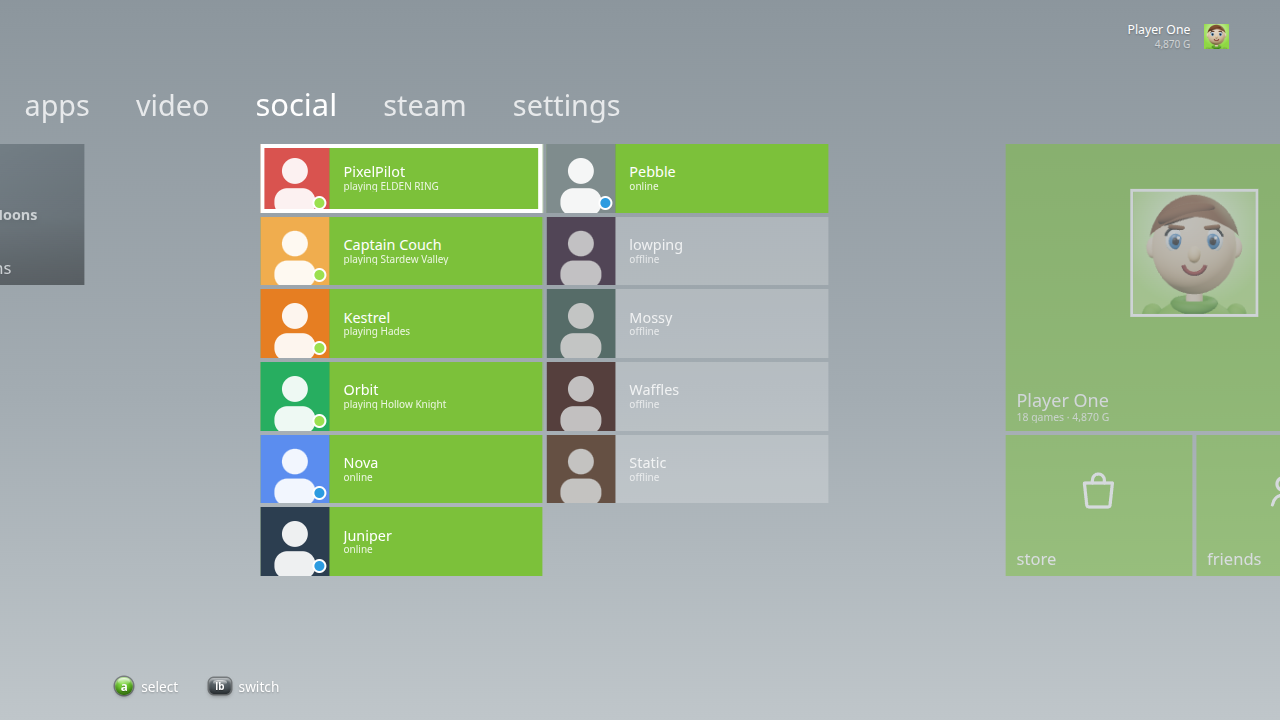
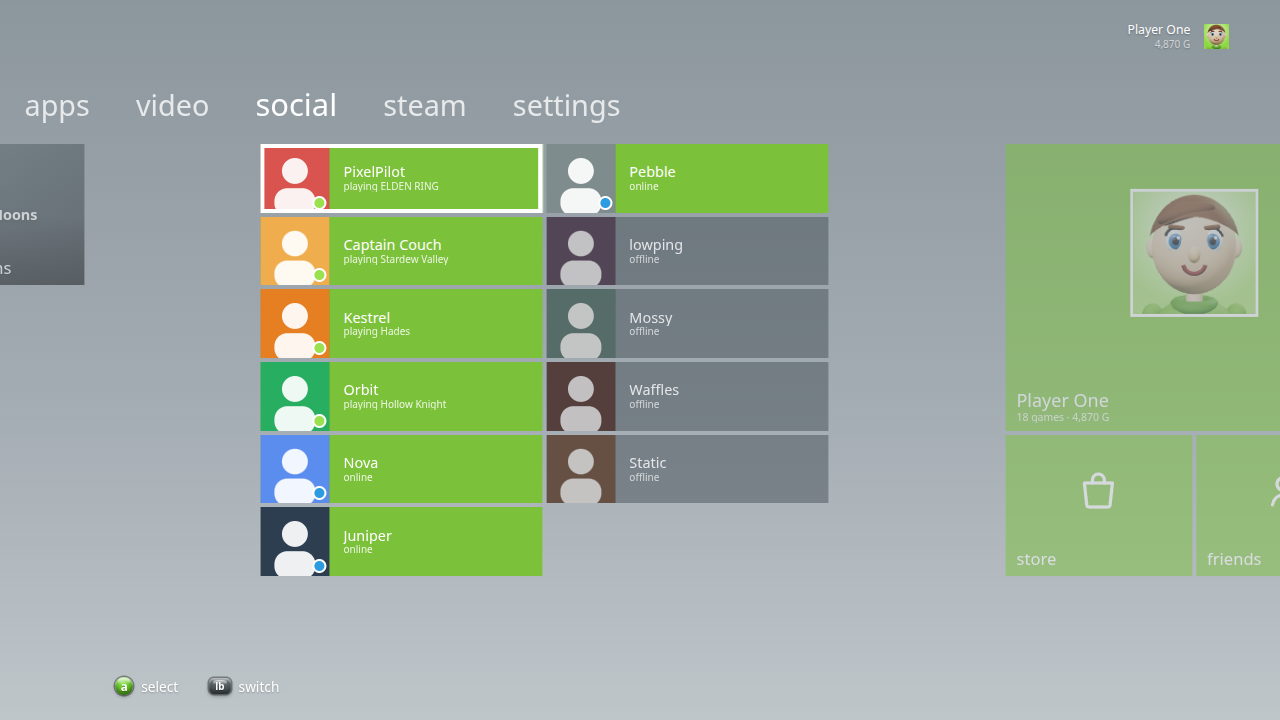
1.3.1: refinements, CI smoke test, support section
- Smaller tile sizes stay vertically centred; offline friend rows and the
  sand background read better; the add-profile slot is visible on light
  themes.
- Sign-in: avatars shrink to fit when there are many profiles, plates get
  smaller, and "add profile" is hidden once there are 8 (the limit).
- Tests for the customize settings (sanitizing, per-profile colors, and
  that the renderer offers exactly the values settings accept).
- CI workflow: unit tests plus every screen rendered offscreen under xvfb,
  failing on page errors; screenshots kept as an artifact.
  test/readme-shots.sh takes OUT and SETTINGS.
- README: video/social/customize/sign-in features, fixed controls table,
  Support section; FUNDING.yml for the Sponsor button.

Changed region(s): [[0.4688, 0.275, 0.6562, 0.7028]]

diff --git a/src/renderer/app.js b/src/renderer/app.js
@@ -33,7 +33,7 @@ const TILE_HEX = {
 const BG_HEX = {
   silver: ['#8c969d', '#a3acb2', '#bfc6ca'], graphite: ['#3f4549', '#353a3e', '#2a2e31'], black: ['#141516', '#0c0d0e', '#050505'],
   navy: ['#1d2c4a', '#14203a', '#0b1326'], forest: ['#2b4a30', '#1f3623', '#132216'], plum: ['#46304f', '#33223a', '#211625'],
-  wine: ['#561e28', '#3c141b', '#250b10'], sand: ['#c9b893', '#d8cba9', '#e6dcc3'],
+  wine: ['#561e28', '#3c141b', '#250b10'], sand: ['#a8946a', '#b8a57c', '#c9b892'],
 };
 const TILE_SIZES = { huge: 1.15, large: 1, medium: 0.85, small: 0.72, tiny: 0.6 };
 const TEXT_SIZES = { small: 0.85, normal: 1, large: 1.2 };
@@ -634,14 +634,15 @@ function metrics() {
   const vh = window.innerHeight;
   // Tile size from 0.5.0 (readable on a TV), with the console's tight gaps.
   const g = Math.max(3, Math.round(vh * 0.005));
-  const gridH = Math.min(vh * 0.6, vw * 0.36) * (TILE_SIZES[state.settings.tileSize] || 1);
+  const fullH = Math.min(vh * 0.6, vw * 0.36);
+  const gridH = fullH * (TILE_SIZES[state.settings.tileSize] || 1);
   const v = (gridH - 2 * g) / ROWS;
   const u = v * 1.32;
   const homeCols = 4;
   const homeW = homeCols * u + (homeCols - 1) * g;
   const x0 = Math.max(40, (vw - homeW) / 2);
   // Neighbouring pivots only peek in from the screen edges.
-  return { vw, vh, g, u, v, x0, top: Math.max(120, vh * 0.2), gap: Math.max(u * 0.62, x0 - u * 0.45) };
+  return { vw, vh, g, u, v, x0, top: Math.max(120, vh * 0.2) + Math.max(0, fullH - gridH) / 2, gap: Math.max(u * 0.62, x0 - u * 0.45) };
 }
 
 // Pivot start columns in strip pixels.
@@ -1477,7 +1478,8 @@ function openSignIn({ startup = false } = {}) {
   const grid = el('div', GL ? 'si-stage' : 'lib-grid pic-grid');
   const cap = el('div', 'lib-caption');
   panel.append(grid, cap);
-  const items = [...profiles.map((p) => ({ p })), { add: true }];
+  // Settings keep at most 8 profiles.
+  const items = [...profiles.map((p) => ({ p })), ...(state.settings.profiles.length < 8 ? [{ add: true }] : [])];
   let i = Math.max(0, profiles.findIndex((p) => p.id === state.settings.profile));
   // With WebGL everyone's avatar stands on one stage, idling, with a name
   // plate under each; otherwise gamerpic cards.
@@ -1488,7 +1490,8 @@ function openSignIn({ startup = false } = {}) {
     grid.append(canvas);
     lineup = new AvatarLineup(canvas);
     lineup.setLooks(profiles.map((p) => normalizeLook(p.avatarLook)));
-    lineup.slots(items.slice(0, -1).map((_, k) => (k + 0.5) / items.length));
+    lineup.slots(profiles.map((_, k) => (k + 0.5) / items.length), items.length);
+    grid.classList.toggle('many', items.length > 5);
   }
   const cards = items.map((it, k) => {
     const c = GL

diff --git a/test/library.test.js b/test/library.test.js
@@ -70,3 +70,56 @@ test('settings are sanitized', () => {
   assert.deepStrictEqual(s.pinned, ['steam:1']);
   assert.strictEqual(s.afterLaunch, 'close');
 });
+
+test('customize settings are sanitized', () => {
+  const s = sanitize({
+    tileColor: 'teal', bgColor: 'url(evil)', tileSize: 'tiny', textSize: 'gigantic',
+    hiddenTabs: ['video', 'video', 'home', 'settings', 'social', 3], recentCount: 3, friendCount: 999, cycleTiles: false,
+  });
+  assert.strictEqual(s.tileColor, 'teal');
+  assert.strictEqual(s.bgColor, '');
+  assert.strictEqual(s.tileSize, 'tiny');
+  assert.strictEqual(s.textSize, 'normal');
+  // home and settings can never be hidden
+  assert.deepStrictEqual(s.hiddenTabs, ['video', 'social']);
+  assert.strictEqual(s.recentCount, 3);
+  assert.strictEqual(s.friendCount, 24);
+  assert.strictEqual(s.cycleTiles, false);
+});
+
+test('colors follow the profile, layout stays shared', () => {
+  const fs = require('fs');
+  const os = require('os');
+  const { Settings } = require('../src/main/settings');
+  const dir = fs.mkdtempSync(path.join(os.tmpdir(), 'nc-settings-'));
+  try {
+    const st = new Settings(dir);
+    st.update({ tileColor: 'red', tileSize: 'small' });
+    st.createProfile('two');
+    assert.strictEqual(st.values.tileColor, '');
+    st.update({ tileColor: 'blue' });
+    st.switchProfile('p1');
+    assert.strictEqual(st.values.tileColor, 'red');
+    assert.strictEqual(st.values.tileSize, 'small');
+    st.switchProfile('p2');
+    assert.strictEqual(st.values.tileColor, 'blue');
+  } finally {
+    fs.rmSync(dir, { recursive: true, force: true });
+  }
+});
+
+test('the renderer offers exactly the customize values settings accept', () => {
+  const fs = require('fs');
+  const S = require('../src/main/settings');
+  const app = fs.readFileSync(path.join(__dirname, '../src/renderer/app.js'), 'utf8');
+  const keysOf = (name) => {
+    const m = app.match(new RegExp(`const ${name} = \\{([\\s\\S]*?)\\n?\\};`));
+    assert.ok(m, name);
+    return [...m[1].matchAll(/(?:^|[\s,{])([a-z]+):/g)].map((x) => x[1]);
+  };
+  assert.deepStrictEqual(keysOf('TILE_HEX'), S.TILE_COLORS.filter(Boolean));
+  assert.deepStrictEqual(keysOf('BG_HEX'), S.BG_COLORS.filter(Boolean));
+  assert.deepStrictEqual(keysOf('TILE_SIZES'), S.TILE_SIZES);
+  assert.deepStrictEqual(keysOf('TEXT_SIZES'), S.TEXT_SIZES);
+  assert.deepStrictEqual(keysOf('TAB_NAMES'), S.TABS);
+});

diff --git a/src/renderer/styles.css b/src/renderer/styles.css
@@ -635,7 +635,7 @@ body.has-overlay #hints { color: var(--dim); text-shadow: none; }
 .tile.t-friend .t-cap { position: static; flex: 1; min-width: 0; padding: 0 12px 0 14px; background: none; text-shadow: none; }
 .tile.t-friend .t-cap b { font-size: clamp(12px, 2vh, 21px); }
 .tile.t-friend .t-cap span { font-size: clamp(10px, 1.35vh, 14px); }
-.tile.t-friend.offline { background: rgba(255, 255, 255, .22); }
+.tile.t-friend.offline { background: rgba(70, 80, 88, .5); }
 .tile.t-friend.offline .f-pic { filter: grayscale(.8) brightness(.8); }
 .tile.t-friend.offline .t-cap { opacity: .8; }
 .tile.t-friend.in-game .f-pic::after, .tile.t-friend.online .f-pic::after { content: ""; position: absolute; right: 5px; bottom: 5px; width: 10px; height: 10px; border-radius: 50%; background: #9be04f; box-shadow: 0 0 0 2px #fff; }
@@ -675,7 +675,8 @@ body.custom-bg #bg .glow, body.custom-bg #bg .ribbons, body.custom-bg #bg .spark
 }
 .si-slot.focused .si-plate { background: var(--accent); border-color: transparent; color: #fff; transform: scale(1.08); box-shadow: 0 0 0 3px #fff; }
 .si-add { position: absolute; left: 50%; bottom: 30%; transform: translateX(-50%); width: 38%; max-width: 160px; aspect-ratio: 1; border-radius: 50%; display: grid; place-items: center;
-  border: 3px dashed rgba(255, 255, 255, .6); color: rgba(255, 255, 255, .75); opacity: .7; transition: opacity .2s, transform .2s var(--ease); }
+  border: 3px dashed color-mix(in srgb, var(--dim) 70%, transparent); color: var(--dim); opacity: .8; transition: opacity .2s, transform .2s var(--ease); }
 .si-add .ico { width: 45%; height: 45%; }
 .si-add b { position: absolute; right: 18%; top: 14%; font-size: clamp(18px, 3vh, 30px); font-weight: 400; }
-.si-slot.add.focused .si-add { opacity: 1; transform: translateX(-50%) scale(1.08); border-color: #fff; color: #fff; }
+.si-slot.add.focused .si-add { opacity: 1; transform: translateX(-50%) scale(1.08); border-color: var(--accent); color: var(--accent); }
+.si-stage.many .si-plate { font-size: clamp(11px, 1.7vh, 18px); padding: .35em .6em; }

diff --git a/src/renderer/avatar3d.js b/src/renderer/avatar3d.js
@@ -1396,7 +1396,9 @@ export class AvatarLineup {
     scene.children.filter((o) => o.isMesh && !this.actors.some((a) => a.group === o)).forEach((o) => { o.visible = false; });
   }
 
-  slots(fractions) { this.fractions = fractions; }
+  // fractions: each avatar's slot centre (0..1 of the width); count: how
+  // many slots share the width, so avatars shrink to fit narrow ones.
+  slots(fractions, count = fractions.length) { this.fractions = fractions; this.slotCount = count; }
 
   focus(i) {
     if (i === this.focused) return;
@@ -1410,13 +1412,15 @@ export class AvatarLineup {
     const dist = cam.position.z;
     const halfW = Math.tan((cam.fov * Math.PI) / 360) * dist * cam.aspect;
     const n = this.actors.length;
+    // An avatar is about 0.8 wide with its arms out a little.
+    const fit = Math.min(1, (2 * halfW) / (this.slotCount || n) / 0.8);
     this.actors.forEach((a, i) => {
       const f = this.fractions && this.fractions[i] != null ? this.fractions[i] : (i + 0.5) / n;
       const on = i === this.focused;
       // Ease towards the slot; the focused avatar steps forward.
       a.x += ((f * 2 - 1) * halfW - a.x) * 0.15;
       a.z += ((on ? 0.2 : 0) - a.z) * 0.12;
-      a.scale += ((on ? 0.92 : 0.82) - a.scale) * 0.12;
+      a.scale += ((on ? 0.92 : 0.82) * fit - a.scale) * 0.12;
       a.group.position.set(a.x * (dist - a.z) / dist, 0, a.z);
       a.group.scale.setScalar(a.scale);
       poseActor(a, now);

diff --git a/README.md b/README.md
@@ -26,8 +26,8 @@ Screenshots use the test library from `test/make-fixture.js` and
 
 ## Features
 
-- **Pivots** across the top: search, home, games, apps, streaming, steam
-  and settings, each a grid of tiles three tall. LB/RB switch pivots, and
+- **Pivots** across the top: search, home, games, apps, video, streaming,
+  social, steam and settings, each a grid of tiles three tall. LB/RB switch pivots, and
   moving off a grid's edge slides into the next one. Home has your last
   game, pins, recent games, a big "continue" tile and two tiles that cycle
   through your library.
@@ -49,16 +49,23 @@ Screenshots use the test library from `test/make-fixture.js` and
 - **Gamerscore and achievements**, read from Steam's own files (no key
   needed): a G total on your gamercard, achievements per game, and
   "achievement unlocked" pop-ups that show over your game.
-- **Social**: your Steam friends from Steam's cache, with online status
-  from their public profiles.
+- **Social**: a compact friends list of your Steam friends (picture, name
+  and what they're playing), in-game and online friends first, with online
+  status from their public profiles.
 - **Video**: your Jellyfin server's continue watching, next up, movies and
   shows, with a built-in player that syncs your progress, and "open in
   jellyfin" for Watch Party.
 - **Search** with a console-style on-screen keyboard, owned games that
   aren't installed (with install), and download progress and "download
   complete" pop-ups.
-- **Profiles** with a "who's playing?" sign-in, each with its own avatar,
-  gamerpic, pins and theme.
+- **Profiles** with a "who's playing?" sign-in where everyone's 3D avatar
+  stands side by side and idles (stretching, checking a watch, waving). Each
+  profile has its own avatar, gamerpic, pins, theme and colors.
+- **Customize** (settings > customize): tile color, background color,
+  tile size (huge to tiny, so more fits on screen), text size, which tabs
+  show (hide video, streaming, social and the rest), how many recent games
+  and friends to show, and whether the home tiles cycle. Changes show
+  straight away; Y resets them.
 - **Gamerpics**: your Steam picture, your avatar's head, or any picture you
   put in the `gamerpics` folder in the user data folder.
 - A **guide** with a gamercard and tabs (home, games, streaming, settings),
@@ -81,8 +88,9 @@ installed and logged in. NostalgiaConsole never opens any other URL.
 | B | Esc / Backspace / right-click | Back (on the dashboard: go home) |
 | X | X | Play now |
 | Y | Y | Pin / unpin (otherwise opens the game library) |
-| LB / RB | Q / E | Skip 5 tiles, or change sort in the library |
-| View / Back | Tab / G | Guide (LB/RB switch tabs) |
+| LB / RB | Q / E | Switch pivots, or change sort in the library |
+| Menu / Start | M | Game details |
+| View / Back, Guide | Tab, G / Home | Guide (LB/RB switch tabs) |
 | | F11 | Full screen |
 
 ## Install
@@ -184,7 +192,8 @@ looks at the latest release.
 npm install
 npm start                 # windowed, using your real Steam library
 npm test                  # parsers, library scan, Moonlight, settings
-test/shot.sh out.png "Down,Enter" 1280x800 midnight   # offscreen screenshot
+test/shot.sh out.png "Down,Return" 1280x800 midnight  # offscreen screenshot
+test/readme-shots.sh      # every screen, into docs/screenshots (CI runs it too)
 npm run dist:linux        # AppImage + tar.gz
 npm run dist:win          # needs Wine, or use the electronuserland/builder:wine image
 ```
@@ -195,6 +204,10 @@ stats, shortcuts) that the tests and `test/shot.sh` use.
 On Linux the AppImage starts Electron with `--no-sandbox`. Ubuntu 24.04+
 blocks the Chromium sandbox for AppImages. The UI only loads its own bundled
 files through a locked-down custom protocol, with a strict CSP.
+
+## Support
+
+If NostalgiaConsole is useful to you, you can support it and other projects on [Venmo (@ablatnick)](https://venmo.com/u/ablatnick).
 
 NostalgiaConsole is a fan project. It isn't affiliated with Microsoft, Xbox,
 Valve or the Moonlight project, and it ships no assets from them.
